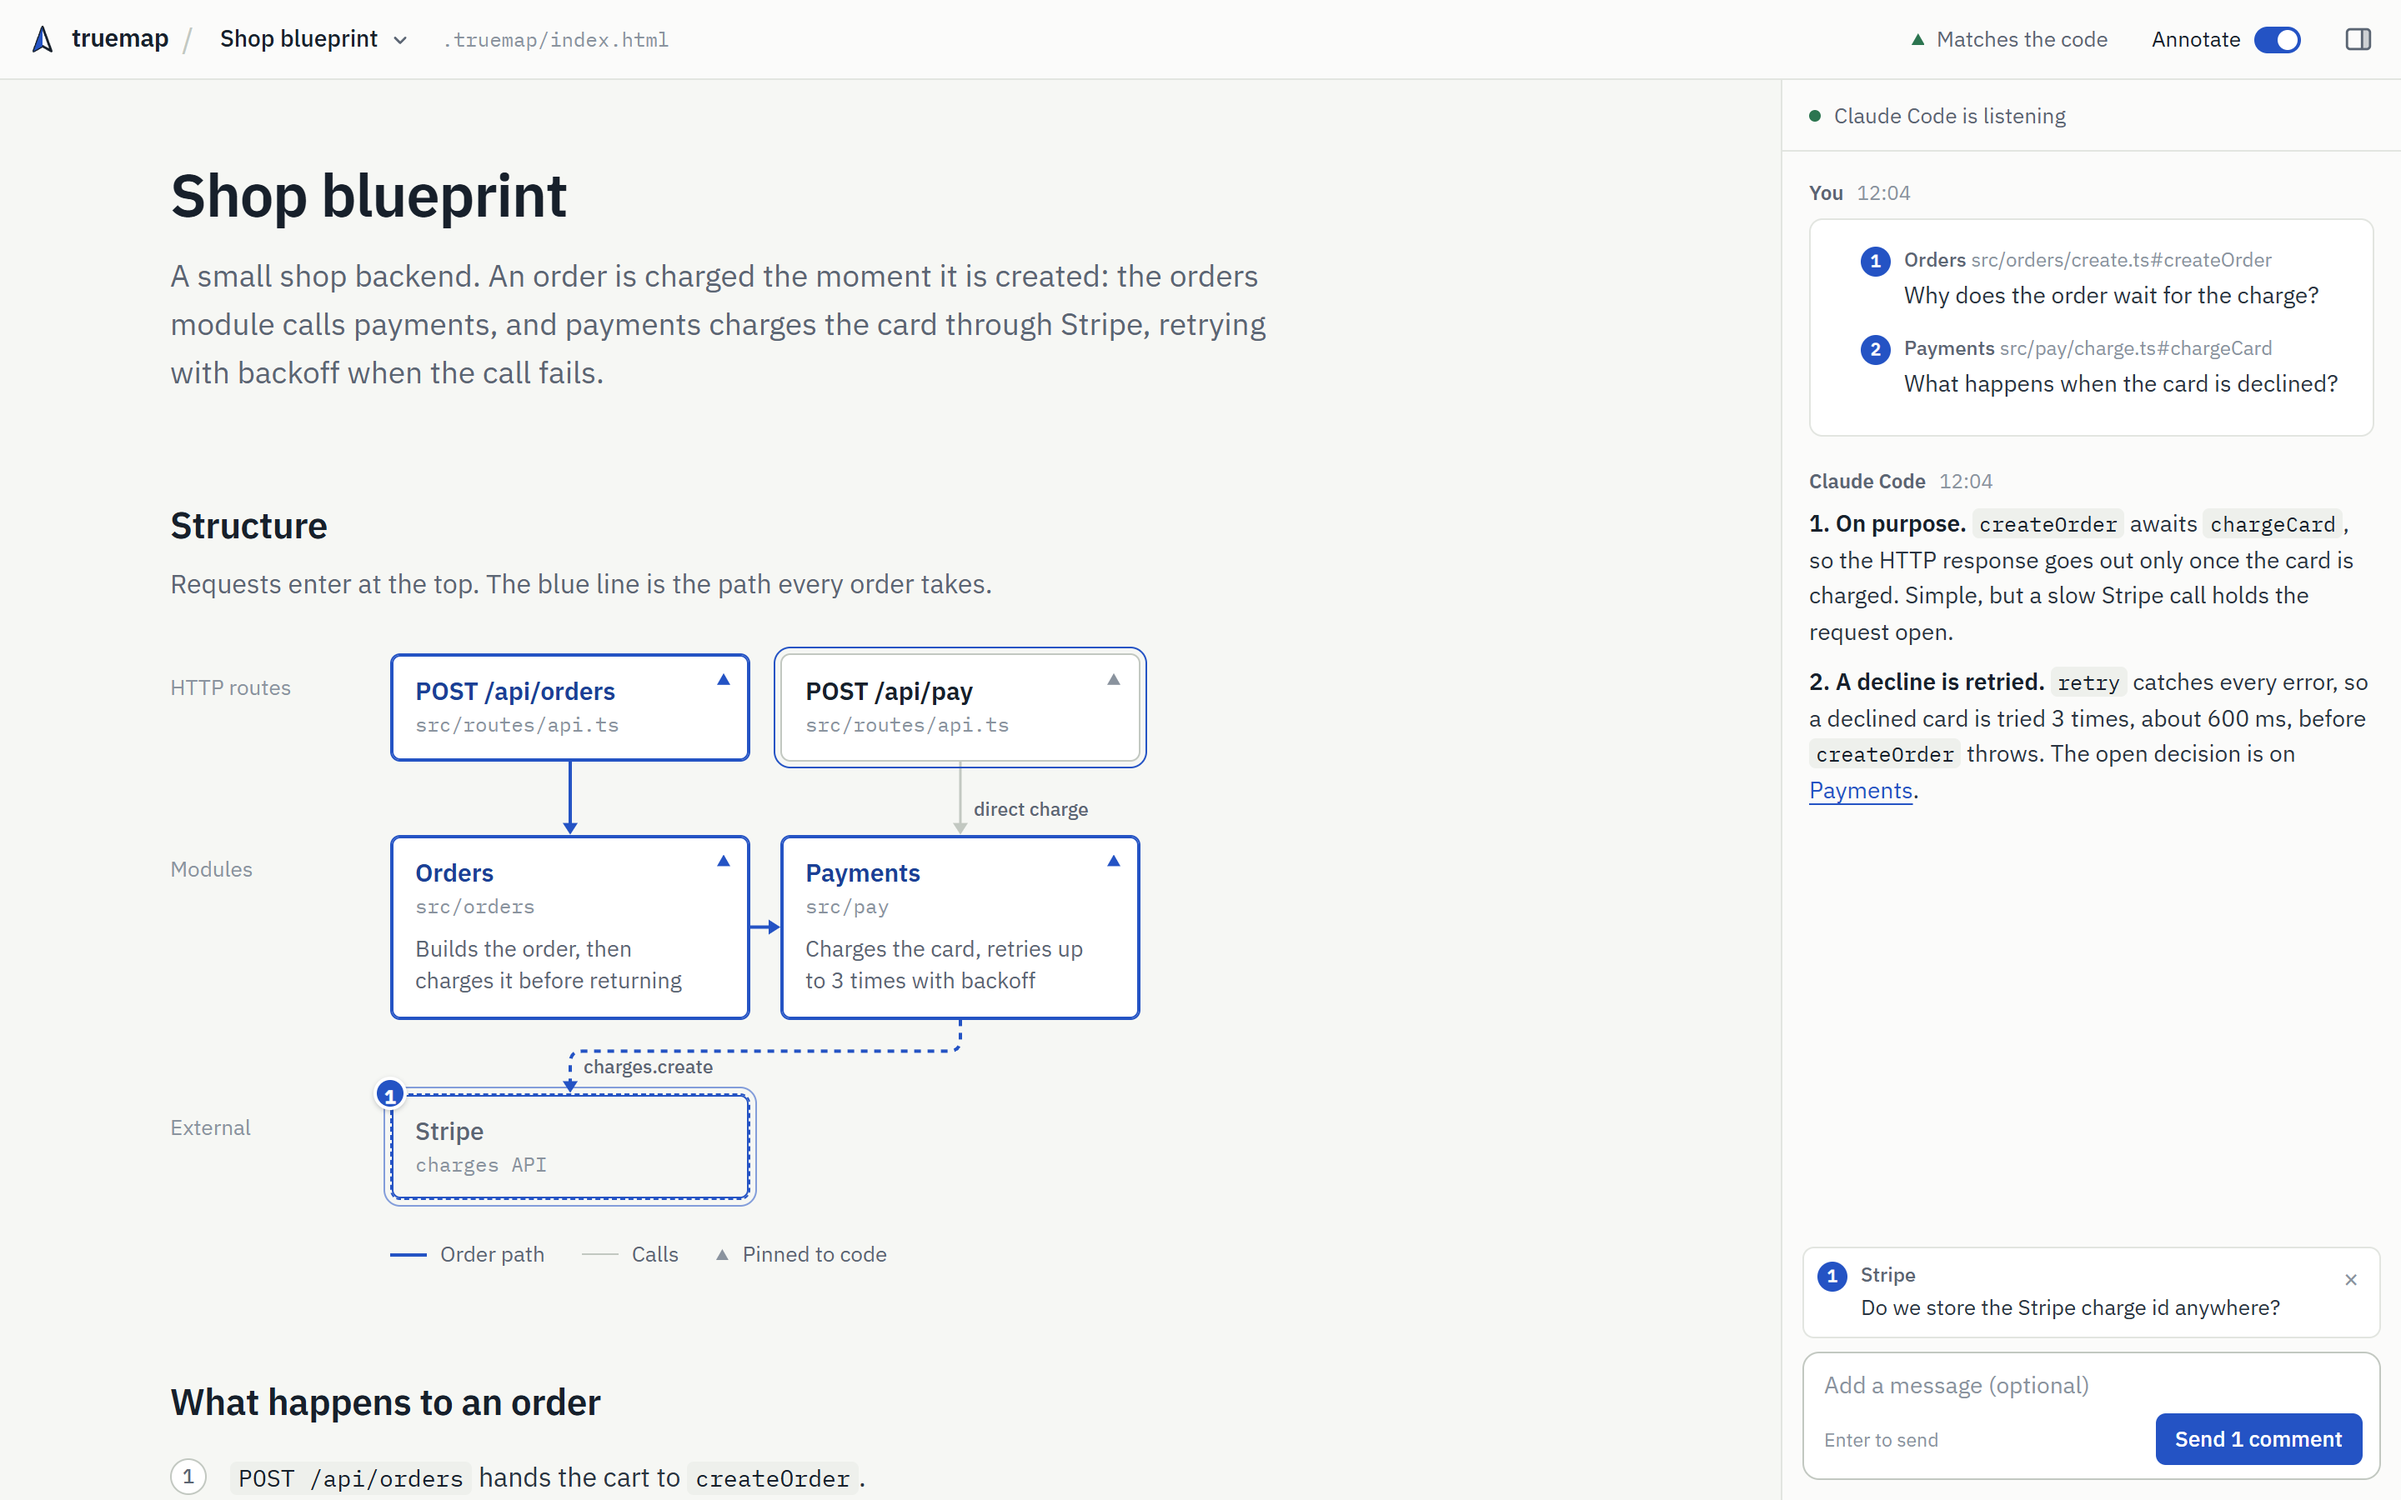
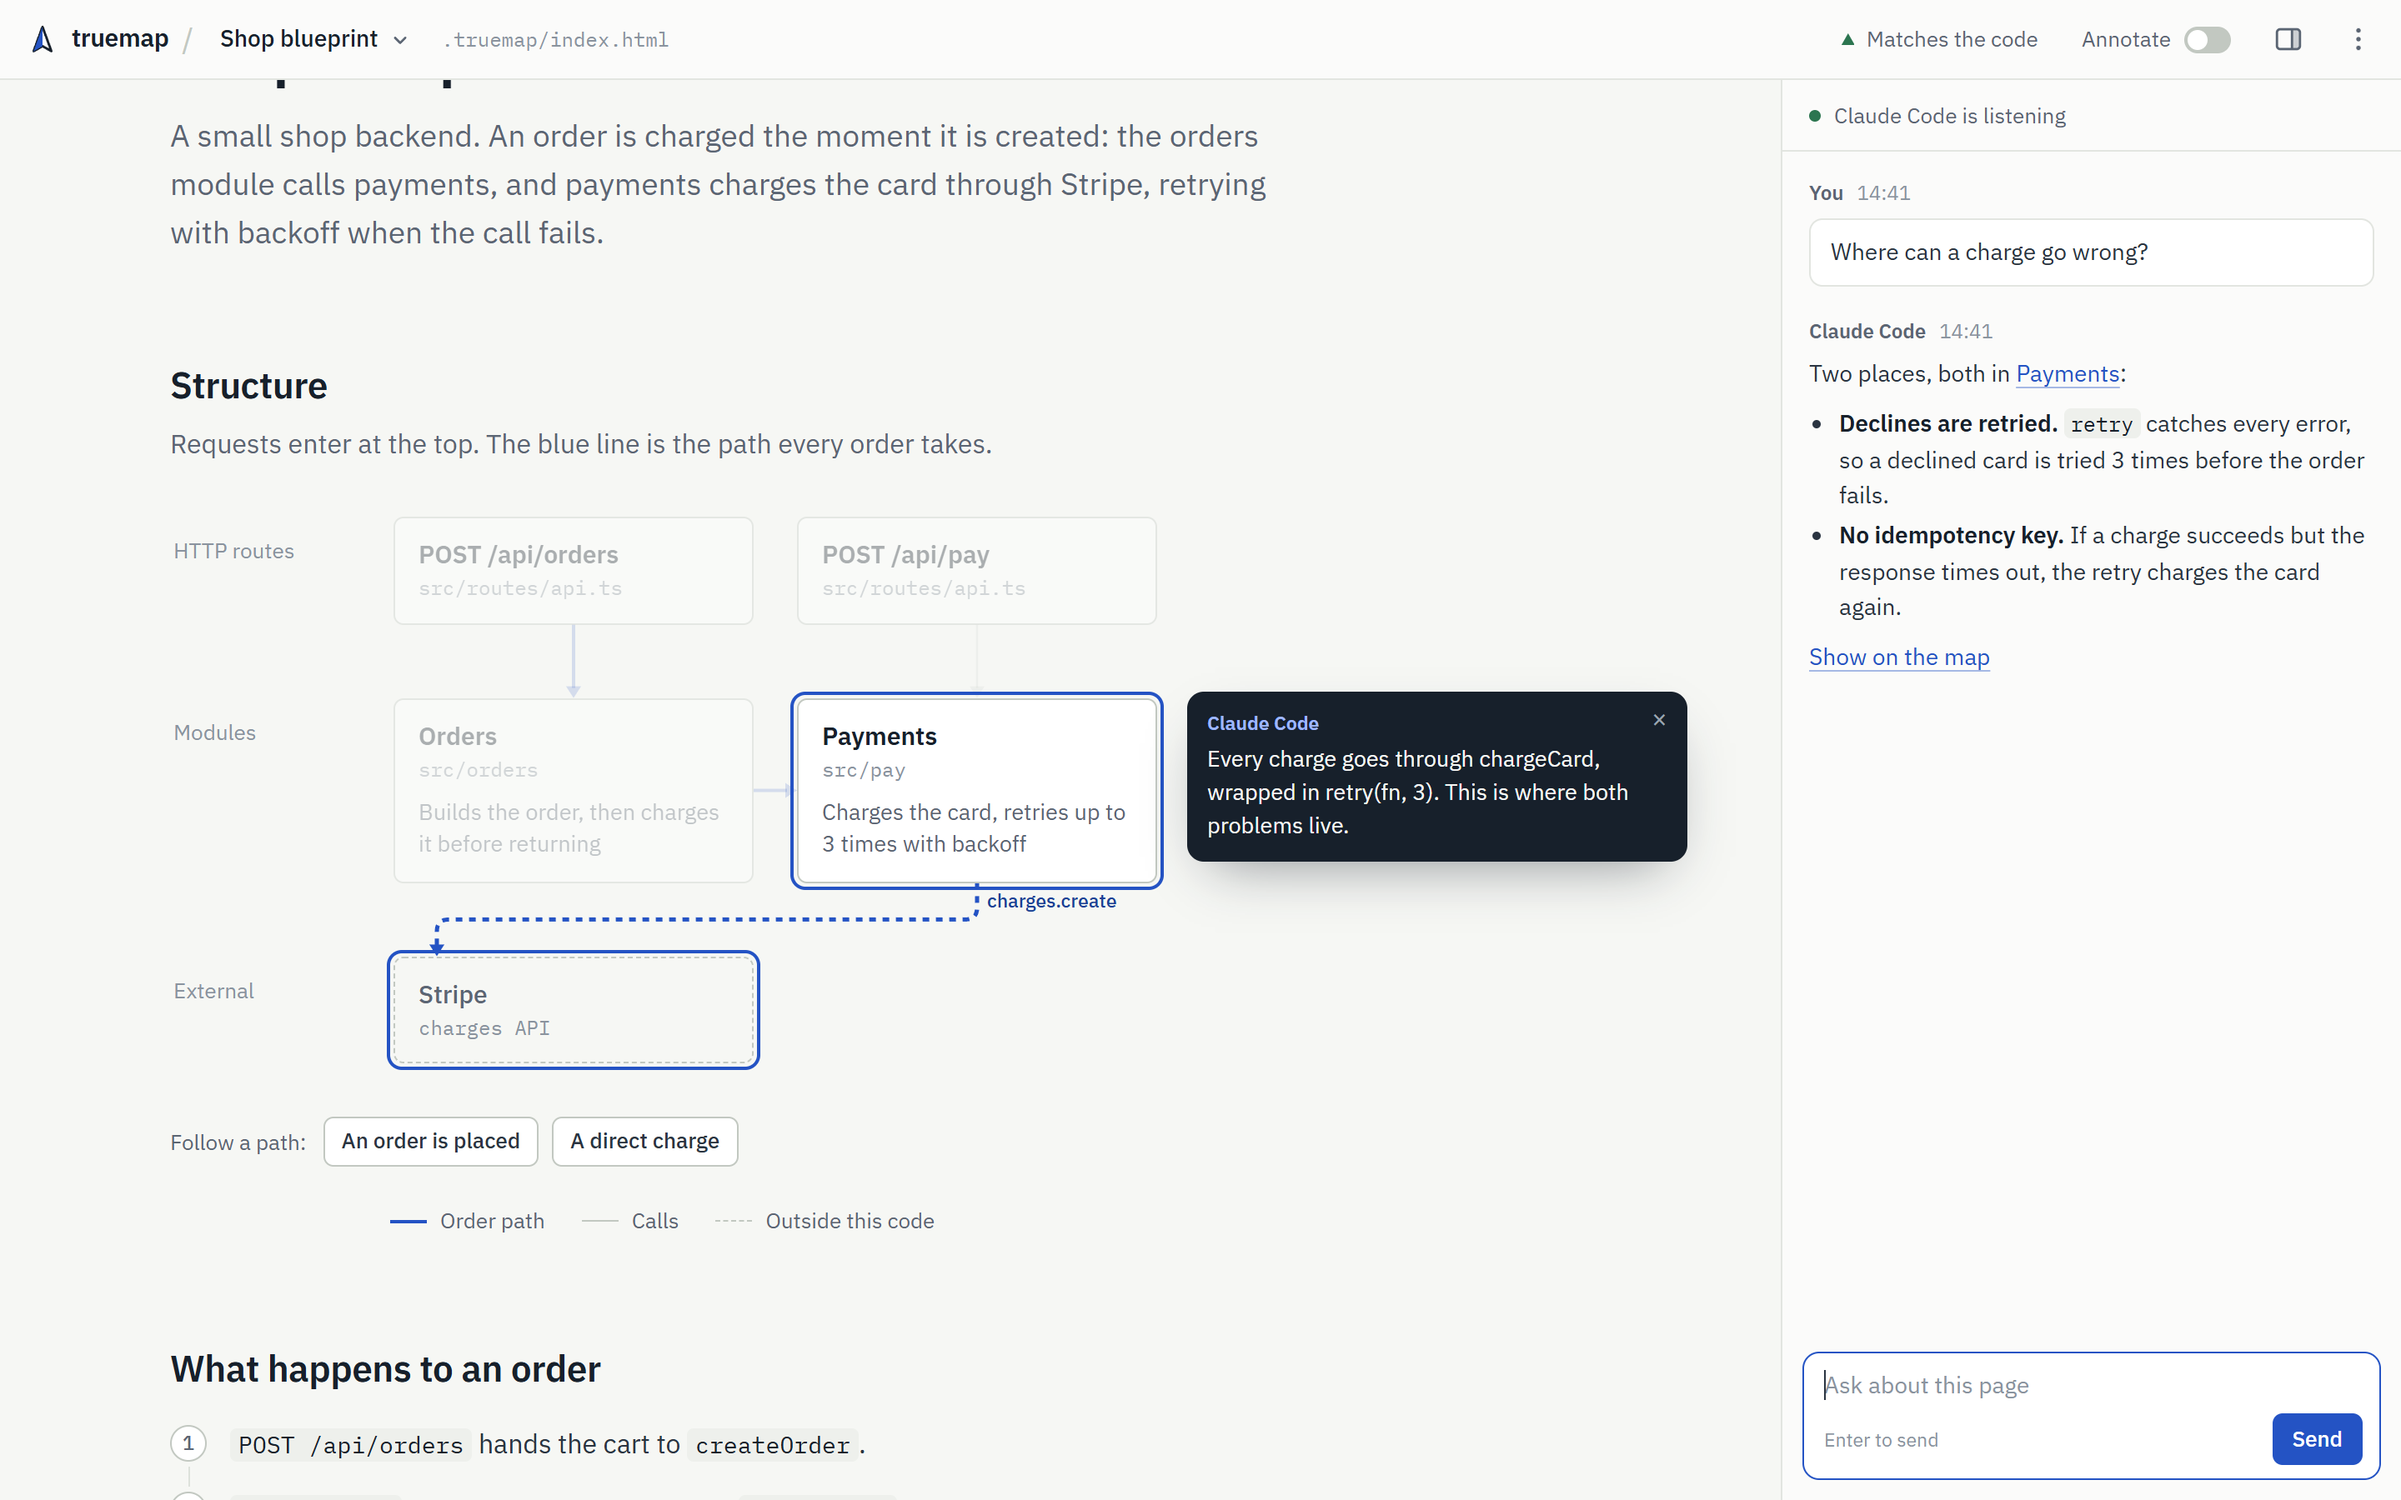
README screenshot for v0.4: the agent points at the map while it answers

diff --git a/README.md b/README.md
@@ -6,7 +6,7 @@
 
 Your coding agent explains the project as HTML pages in your repo: a blueprint of the whole system, a page per module, the options when it needs your call. You read them in the browser, click any box to comment on it, and the agent answers right next to the page. Every box is pinned to real code, so when the code moves on, the map tells you.
 
-![The truemap workspace: a project blueprint with wires, a comment pinned to a box, and the agent's answer in the conversation panel](docs/images/workspace.png)
+![The truemap workspace: the agent answers a question and lights up the two boxes it is talking about, with a note beside them](docs/images/workspace.png)
 
 ## Why
 
